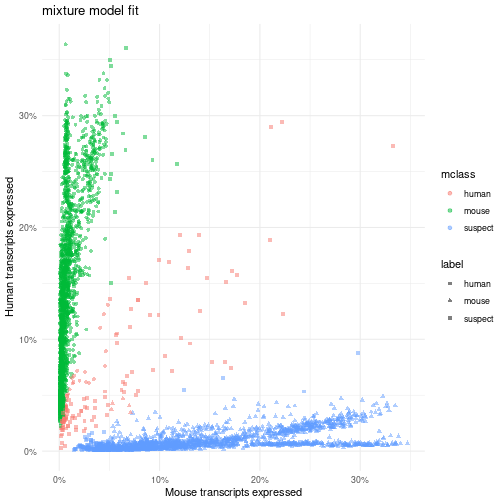
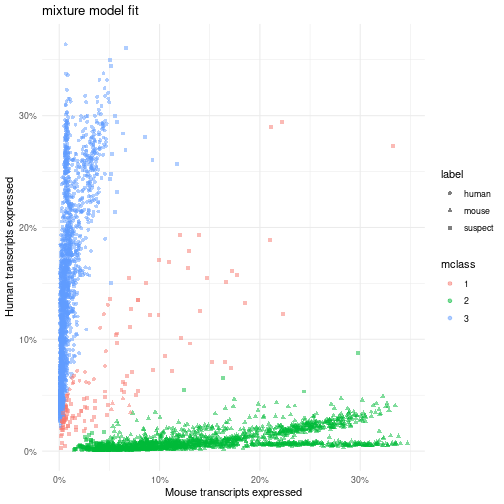
update mixture class assignments and logic

diff --git a/vignettes/project2_chunks/project2_tim.md b/vignettes/project2_chunks/project2_tim.md
@@ -108,10 +108,10 @@ a little easier to keep track of what's going on when we subset either one.
 
 # as what is our object masquerading?
 show(tidybarnyard[,0]) # "just show me information about it, with 0 cells"
-#> # A SingleCellExperiment-tibble abstraction: 0 × 7
-#> [90m# Features=62046 | Assays=counts[39m
-#> # … with 7 variables: cell <chr>, name <chr>, experiment <chr>, method <chr>,
-#> #   barcode <chr>, fracmouse <dbl>, frachuman <dbl>
+#> # A SingleCellExperiment-tibble abstraction: 0 × 8
+#> [90m# Features=62046 | Assays=counts, logcounts[39m
+#> # … with 8 variables: cell <chr>, name <chr>, experiment <chr>, method <chr>,
+#> #   barcode <chr>, sizeFactor <dbl>, fracmouse <dbl>, frachuman <dbl>
 
 # how many rows (genes) and columns (cells) are there in our tidy barnyard?
 dim(tidybarnyard)
@@ -555,9 +555,7 @@ table(mfit$classification) # it turns out that we end up with less human cells
 #> 
 #>    1    2    3 
 #>  142 1941 2116
-barnyardtibble$mclass <- ifelse(mfit$classification == 2, "suspect", 
-                                ifelse(mfit$classification == 1, "human", 
-                                       "mouse")) # not sure how do this tidily.
+barnyardtibble$mclass <- factor(mfit$classification)
 
 # add mixture assignments:
 p <- ggplot(barnyardtibble, 
@@ -580,6 +578,10 @@ Suppose we re-run the regressions using the mixture model fits. What happens?
 
 ```r
 
+# relabel the mixture class calls based on the previous plot
+barnyardtibble %>% mutate(mclass = case_when(mclass == 1 ~ "mouse", 
+                                             mclass == 3 ~ "human", 
+                                             TRUE ~ "suspect"))-> barnyardtibble
 barnyardtibble %>% mutate(mclassifiable = mclass != "suspect") -> barnyardtibble
 
 # null model 
